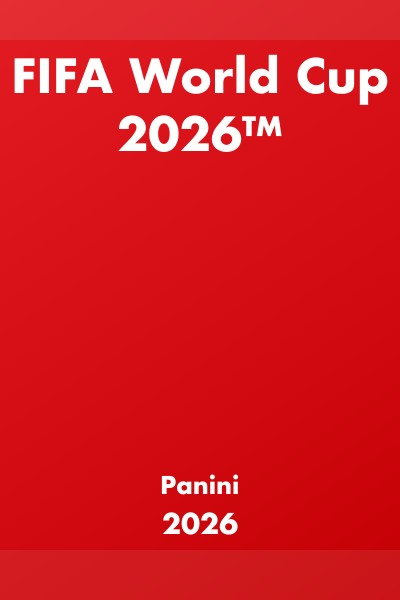
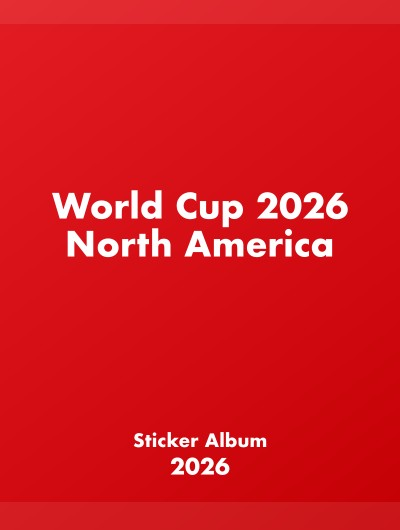
Updates collections for copyright.

diff --git a/scripts/generate-cover.js b/scripts/generate-cover.js
@@ -1,7 +1,8 @@
 #!/usr/bin/env node
 /**
  * Generate a cover image thumbnail for a collection.
- * Creates a JPG with the collection name, year, and brand overlaid on the cover color.
+ * Creates a JPG (400×530, 0.755 aspect) with the collection name, year, and publisher
+ * overlaid on the cover color. Text padding accounts for list-thumbnail horizontal crop.
  *
  * Usage: node scripts/generate-cover.js <collection-slug>
  * Example: node scripts/generate-cover.js fifa-world-cup-2026
@@ -64,12 +65,42 @@ function isColorDark(hex) {
   return luminance < 0.5;
 }
 
+// Matches app thumbnail / hero crop (COVER_W / 0.755 in Haulseum).
+const COVER_ASPECT = 0.755;
+const WIDTH = 400;
+const HEIGHT = Math.round(WIDTH / COVER_ASPECT);
+
+// List thumbnail uses a taller container (thumbH + overflow), so cover mode crops the sides.
+const THUMB_W = 80;
+const THUMB_OVERFLOW = 14;
+
+function horizontalCropPad(imageW, imageH, containerW, containerH) {
+  const scaledW = imageW * (containerH / imageH);
+  if (scaledW <= containerW) return 0;
+  const cropEachSide = ((scaledW - containerW) / 2) * (imageW / scaledW);
+  return Math.ceil(cropEachSide) + 4;
+}
+
+const thumbH = Math.round(THUMB_W / COVER_ASPECT);
+const thumbContainerH = thumbH + THUMB_OVERFLOW * 2;
+const TITLE_PAD_X = horizontalCropPad(WIDTH, HEIGHT, THUMB_W, thumbContainerH);
+
+// Layout tuned for the visible frame — keep text inside the crop-safe band.
+const ACCENT_TOP = 24;
+const ACCENT_BOTTOM = 28;
+const TITLE_FONT_SIZE = 34;
+const TITLE_LINE_HEIGHT = 38;
+const META_PUBLISHER_SIZE = 18;
+const META_YEAR_SIZE = 22;
+const META_GAP = 6;
+const META_BOTTOM_PAD = 36;
+
 // Generate using Canvas
 try {
   const { createCanvas } = require('canvas');
 
-  const width = 400;
-  const height = 600;
+  const width = WIDTH;
+  const height = HEIGHT;
   const canvas = createCanvas(width, height);
   const ctx = canvas.getContext('2d');
 
@@ -89,9 +120,9 @@ try {
   const isDark = isColorDark(collection.coverColor);
   ctx.fillStyle = isDark ? 'rgba(255,255,255,0.08)' : 'rgba(0,0,0,0.08)';
 
-  // Top and bottom accent bars
-  ctx.fillRect(0, 0, width, 40);
-  ctx.fillRect(0, height - 50, width, 50);
+  // Top and bottom accent bars (inside the visible frame)
+  ctx.fillRect(0, 0, width, ACCENT_TOP);
+  ctx.fillRect(0, height - ACCENT_BOTTOM, width, ACCENT_BOTTOM);
 
   // Text color
   ctx.fillStyle = isDark ? '#FFFFFF' : '#000000';
@@ -100,14 +131,14 @@ try {
   ctx.textAlign = 'center';
   ctx.textBaseline = 'middle';
 
-  // Collection name (positioned in middle, centered)
-  ctx.font = 'bold 46px Futura';
-  const maxNameWidth = width - 20;
+  // Collection name — compact band so long titles stay in frame
+  ctx.font = `bold ${TITLE_FONT_SIZE}px Futura`;
+  const maxNameWidth = width - TITLE_PAD_X * 2;
 
   // Wrap long names
   const words = collection.name.split(' ');
   let line = '';
-  let lines = [];
+  const lines = [];
   words.forEach((word) => {
     const testLine = line + (line ? ' ' : '') + word;
     const metrics = ctx.measureText(testLine);
@@ -120,24 +151,30 @@ try {
   });
   if (line) lines.push(line);
 
-  // Title block positioning
-  const titleBlockY = 75;
-  const lineHeight = 58;
-  let currentY = titleBlockY;
+  const titleBlockHeight = lines.length * TITLE_LINE_HEIGHT;
+  const metaBlockHeight = META_PUBLISHER_SIZE + META_GAP + META_YEAR_SIZE;
+  const titleTop = ACCENT_TOP + 20;
+  const titleBottomLimit = height - ACCENT_BOTTOM - META_BOTTOM_PAD - metaBlockHeight - 16;
+  const titleStartY =
+    titleTop +
+    Math.max(0, (titleBottomLimit - titleTop - titleBlockHeight) / 2) +
+    TITLE_LINE_HEIGHT / 2;
 
+  let currentY = titleStartY;
   lines.forEach((textLine) => {
     ctx.fillText(textLine, width / 2, currentY);
-    currentY += lineHeight;
+    currentY += TITLE_LINE_HEIGHT;
   });
 
-  // Brand + Year block positioning (separate block)
-  const brandYearBlockY = height - 115;
+  // Publisher + year anchored above the bottom accent
+  const yearY = height - ACCENT_BOTTOM - META_BOTTOM_PAD;
+  const publisherY = yearY - META_GAP - META_YEAR_SIZE / 2 - META_PUBLISHER_SIZE / 2;
 
-  ctx.font = 'bold 24px Futura';
-  ctx.fillText(`${collection.publisher}`, width / 2, brandYearBlockY);
+  ctx.font = `bold ${META_PUBLISHER_SIZE}px Futura`;
+  ctx.fillText(`${collection.publisher}`, width / 2, publisherY);
 
-  ctx.font = 'bold 28px Futura';
-  ctx.fillText(`${collection.year}`, width / 2, brandYearBlockY + 38);
+  ctx.font = `bold ${META_YEAR_SIZE}px Futura`;
+  ctx.fillText(`${collection.year}`, width / 2, yearY);
 
   // Save as JPEG
   const buffer = canvas.toBuffer('image/jpeg', { quality: 0.9 });
